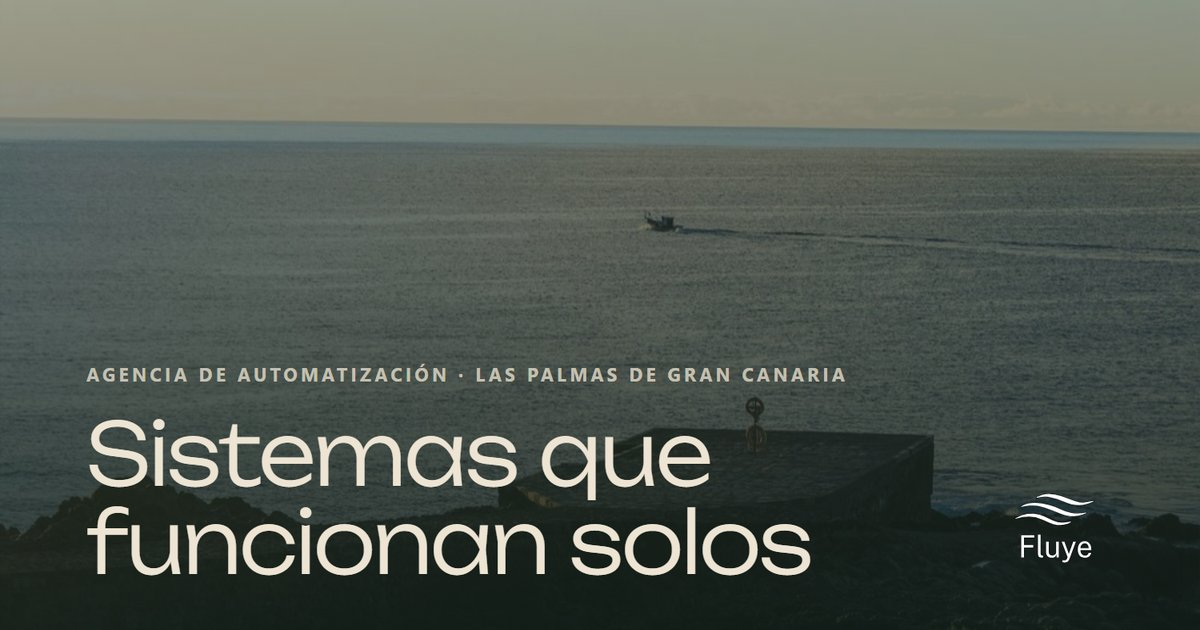
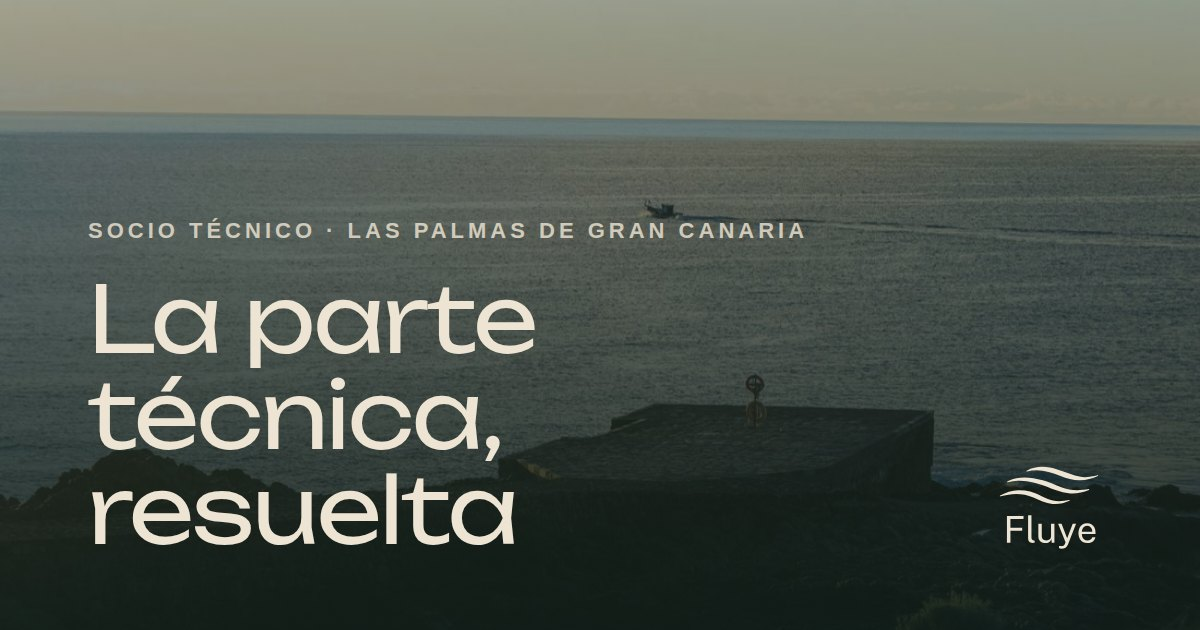
Vista previa del enlace al día: «socio técnico» en vez de «agencia de automatización»
La imagen OG de todas las páginas decía «Agencia de automatización · Las Palmas de Gran Canaria» y «Sistemas que funcionan solos». Es lo primero que ve quien recibe el enlace por WhatsApp o LinkedIn y contradecía el término único «socio técnico».

- assets/fluye_og_1200x630.jpg (portada, logística, 404 y turismo): «Socio técnico · Las Palmas de Gran Canaria» y el h1 de la portada, «La parte técnica, resuelta».
- assets/fluye_og_agencias_1200x630.jpg (nueva, enlazada desde /agencias/): «Socio técnico para agencias» y «Medición, SEO técnico y automatizaciones para tus clientes», frase que ya está en la portada.

Mismo diseño que la anterior: foto del hero de cada página, velo oscuro, Unbounded y logo. Generadas a 1200×630 con Chrome headless desde el CSS de la web.

Texto de cara afuera (aprobado por Rober el 13 nov): pendiente de revisor-fluye antes de publicar. Las redes guardan la vista previa antigua un tiempo.

Claude-Session: https://claude.ai/code/session_01EKvErWNyY8XV1h9QdQGGp1

diff --git a/agencias/index.html b/agencias/index.html
@@ -12,11 +12,11 @@
 <meta property="og:title" content="Socio técnico para agencias digitales · Fluye">
 <meta property="og:description" content="Fluye es el socio técnico de agencias digitales de toda España: medición, SEO técnico, automatizaciones e IA para tus clientes, en marca blanca o como socio. Tú mantienes al cliente y la factura.">
 <meta property="og:url" content="https://fluye.pro/agencias/">
-<meta property="og:image" content="https://fluye.pro/assets/fluye_og_1200x630.jpg">
+<meta property="og:image" content="https://fluye.pro/assets/fluye_og_agencias_1200x630.jpg">
 <meta name="twitter:card" content="summary_large_image">
 <meta name="twitter:title" content="Socio técnico para agencias digitales · Fluye">
 <meta name="twitter:description" content="Fluye es el socio técnico de agencias digitales de toda España: medición, SEO técnico, automatizaciones e IA para tus clientes, en marca blanca o como socio. Tú mantienes al cliente y la factura.">
-<meta name="twitter:image" content="https://fluye.pro/assets/fluye_og_1200x630.jpg">
+<meta name="twitter:image" content="https://fluye.pro/assets/fluye_og_agencias_1200x630.jpg">
 <script type="application/ld+json">
 {
   "@context": "https://schema.org",
